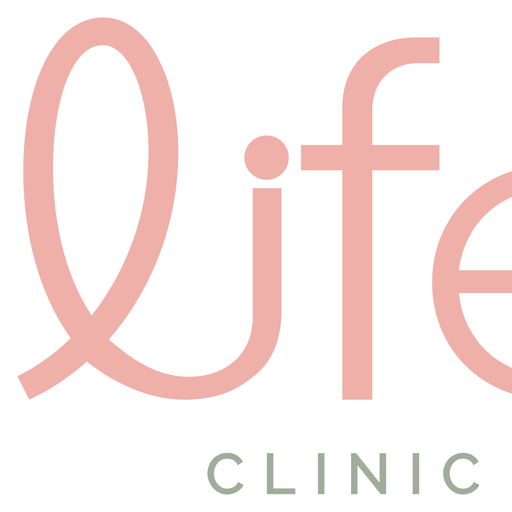
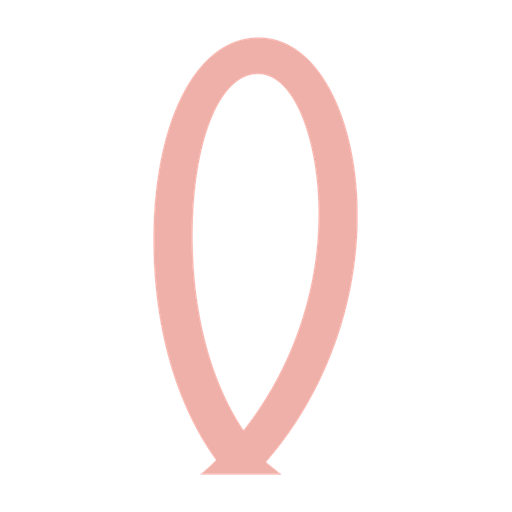
fix: monograma usa o símbolo real da marca, não mais texto "PB"
Recortei bem justo o "l" de life do logo (trim exato via sharp),
recoloro para petróleo (fundos claros) e branco (fundos escuros).
Monogram agora renderiza essa imagem em vez de iniciais em texto.
Favicon também passa a usar o mesmo símbolo recortado.

diff --git a/src/components/Monogram.tsx b/src/components/Monogram.tsx
@@ -1,9 +1,23 @@
+import Image from "next/image";
 import { siteConfig } from "@/config/site";
 
-export default function Monogram({ className = "" }: { className?: string }) {
+type MonogramProps = {
+  className?: string;
+  /** cor do símbolo — "petrol" para fundos claros, "white" para fundos escuros */
+  tone?: "petrol" | "white";
+};
+
+/** Círculo de marca com o símbolo da Life Clinic (o "l" de life, recortado do logo). */
+export default function Monogram({ className = "", tone = "petrol" }: MonogramProps) {
   return (
-    <span className={`monogram ${className}`} aria-hidden="true">
-      {siteConfig.initials}
+    <span className={`monogram ${className}`}>
+      <Image
+        src={tone === "white" ? "/images/mark-white.png" : "/images/mark-petrol.png"}
+        alt={`Símbolo ${siteConfig.name}`}
+        width={200}
+        height={330}
+        className="h-[55%] w-auto"
+      />
     </span>
   );
 }

diff --git a/src/components/FinalCta.tsx b/src/components/FinalCta.tsx
@@ -7,7 +7,10 @@ export default function FinalCta() {
   return (
     <section className="bg-primary-deep py-20 text-white md:py-24">
       <Reveal className="wrap max-w-3xl text-center">
-        <Monogram className="mx-auto h-14 w-14 border-white/40 !bg-white/10 text-base !text-white" />
+        <Monogram
+          tone="white"
+          className="mx-auto h-14 w-14 border-white/40 !bg-white/10"
+        />
         <h2 className="mt-6 text-3xl text-white sm:text-4xl">{finalCta.title}</h2>
         <SectionCta align="center" variant="salmon" onDark className="mt-9" />
       </Reveal>

diff --git a/src/components/Hero.tsx b/src/components/Hero.tsx
@@ -132,7 +132,7 @@ export default function Hero() {
             />
           </div>
 
-          <Monogram className="absolute -left-5 top-8 h-16 w-16 text-lg shadow-[var(--shadow-soft)]" />
+          <Monogram className="absolute -left-5 top-8 h-16 w-16 shadow-[var(--shadow-soft)]" />
 
           <motion.div
             className="absolute -bottom-6 right-2 w-max max-w-[15rem] rounded-2xl border border-card-border bg-white/95 px-4 py-3 shadow-[var(--shadow-soft)] backdrop-blur-sm"

diff --git a/src/components/Offer.tsx b/src/components/Offer.tsx
@@ -71,7 +71,10 @@ export default function Offer() {
               className="h-full w-full object-cover"
             />
           </ParallaxY>
-          <Monogram className="absolute -right-4 top-6 h-14 w-14 border-white/50 !bg-primary-deep text-base !text-white" />
+          <Monogram
+            tone="white"
+            className="absolute -right-4 top-6 h-14 w-14 border-white/50 !bg-primary-deep"
+          />
         </Reveal>
       </div>
     </section>

diff --git a/src/components/NotAlwaysImmunity.tsx b/src/components/NotAlwaysImmunity.tsx
@@ -15,7 +15,7 @@ export default function NotAlwaysImmunity() {
 
       <div className="wrap relative max-w-3xl text-center">
         <Reveal>
-          <Monogram className="mx-auto h-14 w-14 text-base" />
+          <Monogram className="mx-auto h-14 w-14" />
           <span className="mt-6 inline-block rounded-full bg-salmon/35 px-4 py-1.5 text-xs font-bold uppercase tracking-[0.18em] text-primary">
             {notAlwaysImmunity.badge}
           </span>

diff --git a/src/components/Header.tsx b/src/components/Header.tsx
@@ -43,7 +43,7 @@ export default function Header() {
             className="flex items-center gap-3"
             aria-label={`${siteConfig.doctor} — início`}
           >
-            <Monogram className="h-10 w-10 text-sm" />
+            <Monogram className="h-10 w-10" />
             <span className="hidden leading-tight sm:block">
               <span className="block font-heading text-sm font-bold text-primary">
                 {siteConfig.doctor}

diff --git a/src/app/globals.css b/src/app/globals.css
@@ -235,11 +235,8 @@
     place-items: center;
     border-radius: 999px;
     border: 1px solid var(--color-salmon);
-    font-family: var(--font-heading);
-    font-weight: 700;
-    letter-spacing: 0.04em;
-    color: var(--color-primary);
     background: color-mix(in srgb, var(--color-salmon) 22%, #fff);
+    overflow: hidden;
   }
 
   /* ---- Watermark do primeiro nome atrás das fotos ---- */
